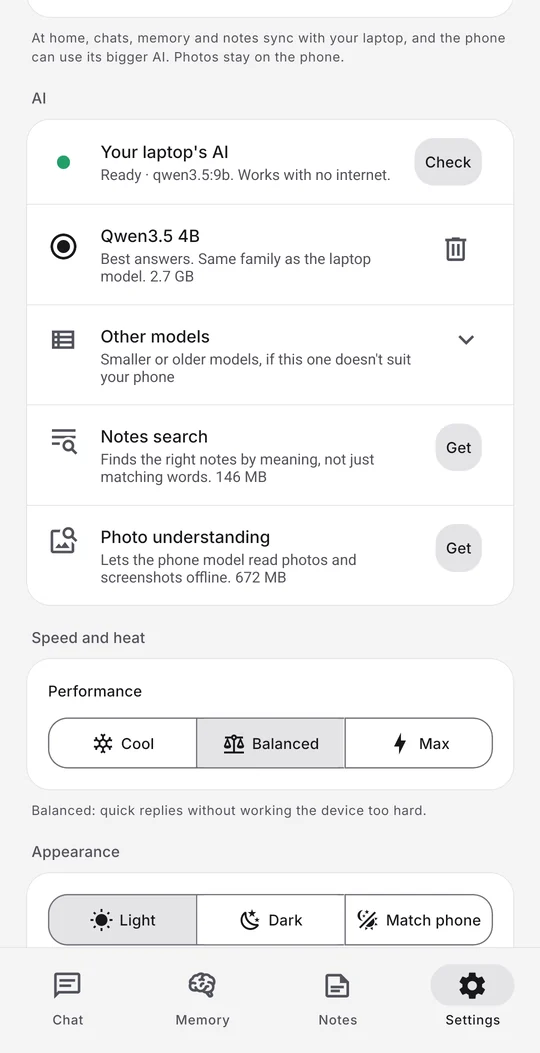
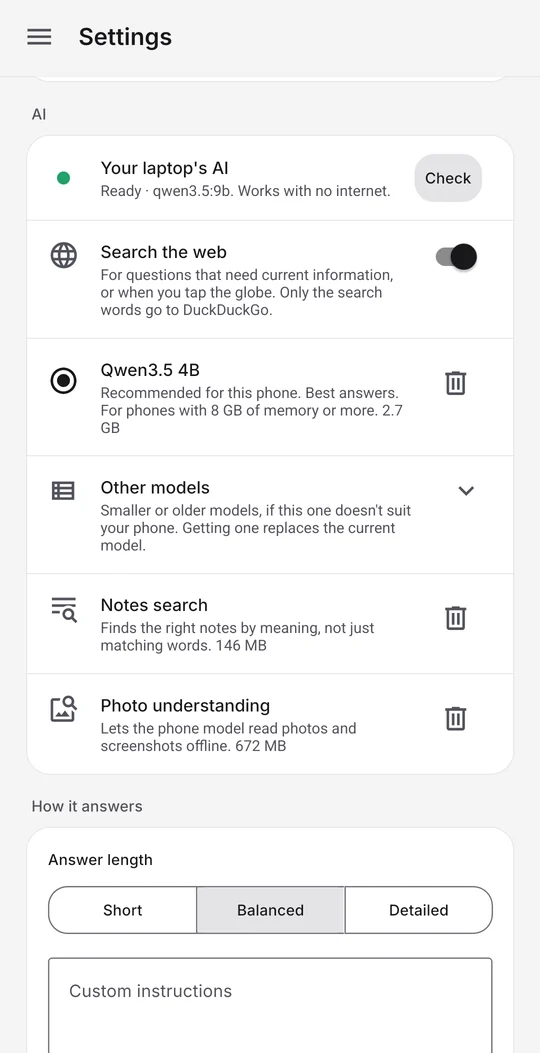
Website: 1.2 screenshots of the PDF summary and the AI settings (menu instead of tabs, phone's own model), alt text to match

diff --git a/site/index.html b/site/index.html
@@ -103,11 +103,11 @@
         <figcaption><strong>Drafts a reply.</strong> Paste a message and say what you want to say back.</figcaption>
       </figure>
       <figure class="shot">
-        <img class="shot__media" src="/img/summarise-pdf.webp" width="540" height="1053" loading="lazy" alt="A building notice about a water shut-off, shared as a PDF, and Aislet summarising it">
+        <img class="shot__media" src="/img/summarise-pdf.webp" width="540" height="1053" loading="lazy" alt="A building notice about a water shut-off, shared as a PDF, and Aislet summarising it as a short list">
         <figcaption><strong>Summarises what you share.</strong> Send a PDF, photo or link from any Android app.</figcaption>
       </figure>
       <figure class="shot">
-        <img class="shot__media" src="/img/settings-ai.webp" width="540" height="1053" loading="lazy" alt="The AI settings: the laptop’s model, the phone’s own Qwen3.5 model, and speed and heat options">
+        <img class="shot__media" src="/img/settings-ai.webp" width="540" height="1053" loading="lazy" alt="The AI settings: the laptop’s model, the phone’s own Qwen3.5 4B model recommended for this phone, web search, and add-ons for notes search and photos">
         <figcaption><strong>Uses your laptop at home.</strong> The phone borrows the computer’s bigger AI over Wi-Fi.</figcaption>
       </figure>
     </div>

diff --git a/README.md b/README.md
@@ -6,7 +6,7 @@ Say it "eye-let": AI plus islet, a private AI island. It was called Untethered u
 
 | Drafts replies | Summarises PDFs you share | Runs on your own devices |
 | :---: | :---: | :---: |
-| <img src="docs/images/demo.gif" width="250" alt="Typing a message from a landlord about a plumber's visit, and Aislet drafting a polite reply"> | <img src="docs/images/summarise-pdf.png" width="250" alt="A building notice about a water shut-off shared as a PDF, and Aislet summarising it"> | <img src="docs/images/settings-ai.png" width="250" alt="The AI settings: the laptop's model, the phone's own Qwen3.5 model, and speed and heat options"> |
+| <img src="docs/images/demo.gif" width="250" alt="Typing a message from a landlord about a plumber's visit, and Aislet drafting a polite reply"> | <img src="docs/images/summarise-pdf.png" width="250" alt="A building notice about a water shut-off shared as a PDF, and Aislet summarising it as a short list"> | <img src="docs/images/settings-ai.png" width="250" alt="The AI settings: the laptop's model, the phone's own Qwen3.5 4B model recommended for this phone, web search, and add-ons for notes search and photos"> |
 
 ## Install
 
